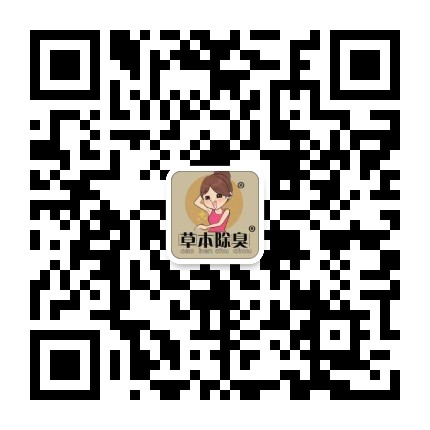
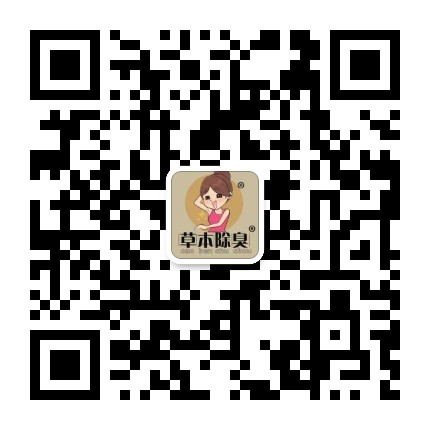
ts

Changed region(s): [[0.0605, 0.0605, 0.9372, 0.9372]]

diff --git a/hc12/hc6.php b/hc12/hc6.php
@@ -212,7 +212,7 @@
 					<div style="text-align: center; color: #000;font-size: 24px;letter-spacing: 3px;border: 2px solid rgb(255, 105, 31);border-radius: 5px; width: 90%;margin: 10px auto;">
 						<p style="text-align: center;">数万去狐臭成功案例，成功率高达99%，彻底解决狐臭问题！</p>
 						<p style="color: red;font-weight: bold;text-align: center;"><span>每天只通过30个名额</span><br>长按下方二维码添加微信！</p>
-						<div style="margin-bottom: 20px;"> <img style="text-align: center;max-width: 200px;width: 100%;" class="wechatidpic" src="http://img.heven.top/<?php echo $dirname.'/'.$dirview ?>/<?php echo $stxlwx?>.jpg"></div>
+						<div style="margin-bottom: 20px;"> <img style="text-align: center;max-width: 200px;width: 100%;" class="wechatidpic" src="http://img.heven.top/<?php echo $dirname.'/'.$dirview ?>/<?php echo $stxlwx?>"></div>
 						<p style="text-align: center;">长按上方二维码↑↑，添加老师好友！</p>
 					</div>
 					<style>
@@ -691,7 +691,7 @@
 	<!-- 	<div class="botto  botoot"><img src="picture/xiaoxuan.jpg" style="width: 50px;height:50px;    border-radius: 100%;    border: 2px solid #004787;    margin-right: 10px;box-sizing: border-box;">微信号：<span class="weixin_name" style="color: gold;font-weight: bold;padding-left: 4px;" oncopy="myFunction()" name="notweixin"></span><br> 100%去狐臭方案，真正净味 </div> -->
 	<div class="foot">
 		<img style="width:100%;" src="http://img.heven.top/<?php echo $dirname.'/'.$dirview ?>/o1cn017iduab1viaffbbzjd_!!2928842630.jpg">
-		<img class="wechatidpic" style="width:26%;position:absolute;z-index:1000;top:2%;left:22%;" src="http://img.heven.top/<?php echo $dirname.'/'.$dirview ?>/<?php echo $stxlwx?>.jpg">
+		<img class="wechatidpic" style="width:26%;position:absolute;z-index:1000;top:2%;left:22%;" src="http://img.heven.top/<?php echo $dirname.'/'.$dirview ?>/<?php echo $stxlwx?>">
 
 	</div>  
 	<div class="qwe">
@@ -766,7 +766,7 @@
               微信扫一扫下方二维码
              </text>
              <center style="margin-top: 10px;">
-            <img class="wechatidpic" style="width:200px;" src="http://img.heven.top/<?php echo $dirname.'/'.$dirview ?>/<?php echo $stxlwx?>.jpg">
+            <img class="wechatidpic" style="width:200px;" src="http://img.heven.top/<?php echo $dirname.'/'.$dirview ?>/<?php echo $stxlwx?>">
              </center>添加老师微信号:&nbsp;
              <span style="color:#ff0000" class="wxName" name="notweixin">gcd09394</span>
              <p></p>
